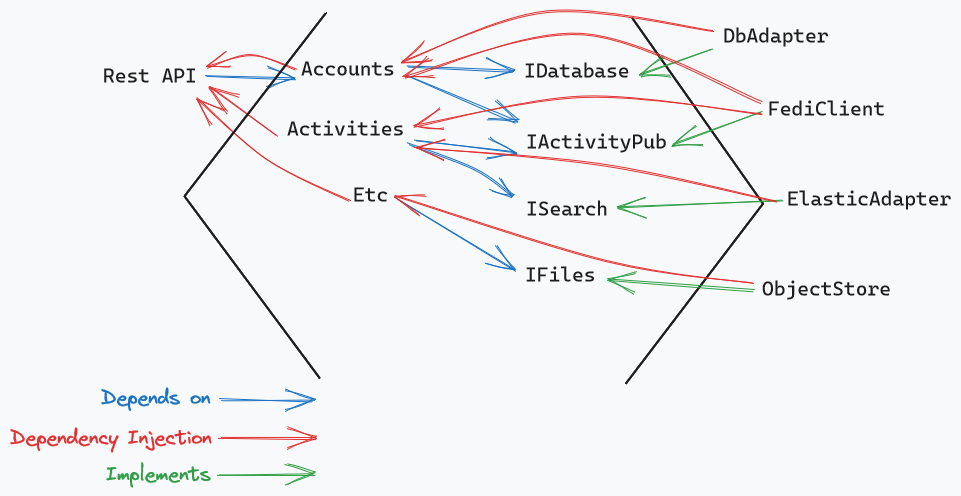
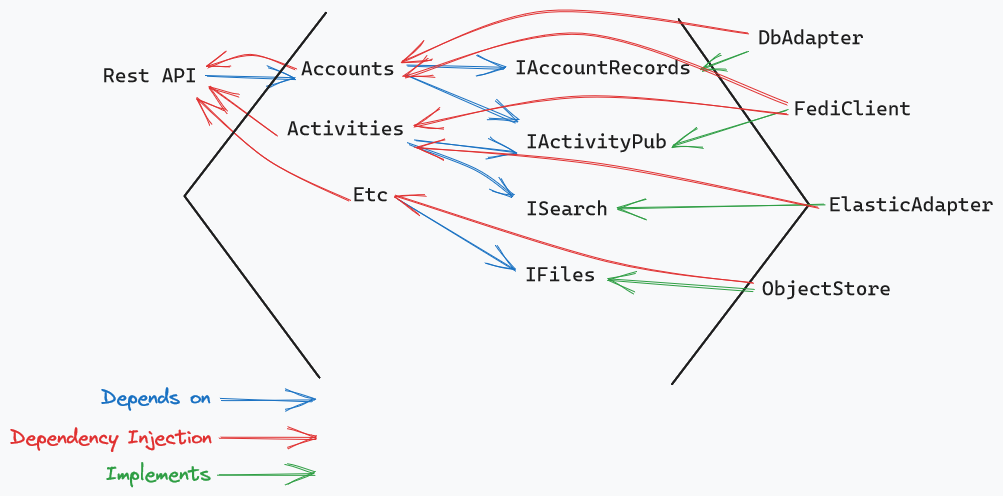
adr-architecture

diff --git a/docs/decisions/02-architecture-design-patterns.md b/docs/decisions/02-architecture-design-patterns.md
@@ -13,19 +13,39 @@ Using a hexagonal architecture for the overall application. And using query obje
 
 ## Hexagonal Architecture
 
-The application should generally follow a hexagonal architecture.
+The application should generally follow a hexagonal architecture. There are a number of good discussions online of what a hexagonal architecture is and how to implement it. I think [this one from Hackernoon](https://hackernoon.com/hexagonal-architecture-introduction-part-i-e51h36id) is pretty good. So is [this one by Pablo Martinez](https://medium.com/ssense-tech/hexagonal-architecture-there-are-always-two-sides-to-every-story-bc0780ed7d9c). It is essentially a layered architecture. The outer layer provides adapters that handle interaction with clients, APIs, databases, and so on. The inner core handles the main application logic. What distinguishes this from other layered architectures is that direct dependencies should only point inward, toward the core application and domain logic. Core components can depend on each other, but cannot have any dependencies on adapters. Adapter components can only depend on core components, and not on each other.
+
+This is facilitated through dependency injection. Left side adapters are generally thought of as action drivers. User action or other real world events are received by those adapters. They invoke core modules, which process and act on that input. Those core modules define interfaces for the capabilities they need, such as to query and record application data. Right side adapters implement those interfaces, and are registered in the DI system. The core modules depend on the interfaces they've defined, and dependency injection provides the implementations.
+
+This box-and-arrow diagram gives an idea what this would look like for a partial set of Letterbook modules. These haven't been implemented yet and will likely change but I hope this conveys the idea.
 ![hexagonal-architecture.png](hexagonal-architecture.png)
+
+There are several major benefits to this pattern. I think the biggest may be that it enforces loose coupling. Despite the best intentions, it can often happen that UI, domain, and database code all get tightly linked through transitive dependencies. In this design, those kind of transitive dependencies are very difficult to even create, let alone abuse. Another major benefit is that the core application logic can relatively easily define whatever structure and models make sense for the domain, independently of the APIs and etc that will make use of that core application.
+
+All of that has very desirable effects
+
+* Core logic and adapters are mostly very easy to test
+* Code continues to be easy to evolve
+* Changes are mostly very isolated
+* Adding new interfaces has minimal impact on existing functionality
 
 ## Query Objects
 
+The query object pattern is about data access, so this pertains to the database adapter module(s). The adapter still needs to fulfill the interface defined by core modules, and that interface should focus on the needs of those core application classes. Query objects account for an internal implementation detail of that adapter. I'm including it here because database access is a critial component of any application that has a database, and there's no architectural pattern which can change that.
+
+In the query objects pattern, database queries and encapsulated by an object. That is, a specific object represents and performs a specific query. This includes managing transaction lifetimes. Query objects also provide good points to perform optimizations. Most query objects can be built around ordinary ORM methods. When needed, others can break out of the ORM and use hand crafted SQL. Query objects also provide good opportunities to do query batching and prepared statements.
+
 ## Impact
 
-Details about what changes because of the decision
+This is more guidance, really. But these two patterns should guide essentially all of the foundational work we're doing at this point.
 
 ## Context
 
-Information about the situation that prompted the proposal/decision
+There are probably many patterns that would make sense and give good results. But I think HexArch is particularly well suited to Letterbook's use case. The separation of concerns and loose coupling will create natural points to break up work in distributed systems in order to support very high capacity configurations. Yet still supporting single-binary distributions for small scale deployments. 
+
+Beyond that, I think it's important to have *some* pattern. Having an established pattern gives structure to everything. It makes things more consistent, and guides the way development will happen.
+
 
 ## Discussion
 
-A summary of the comments/issues/concerns that led up to the decision
+Hexagons are the bestagons.
